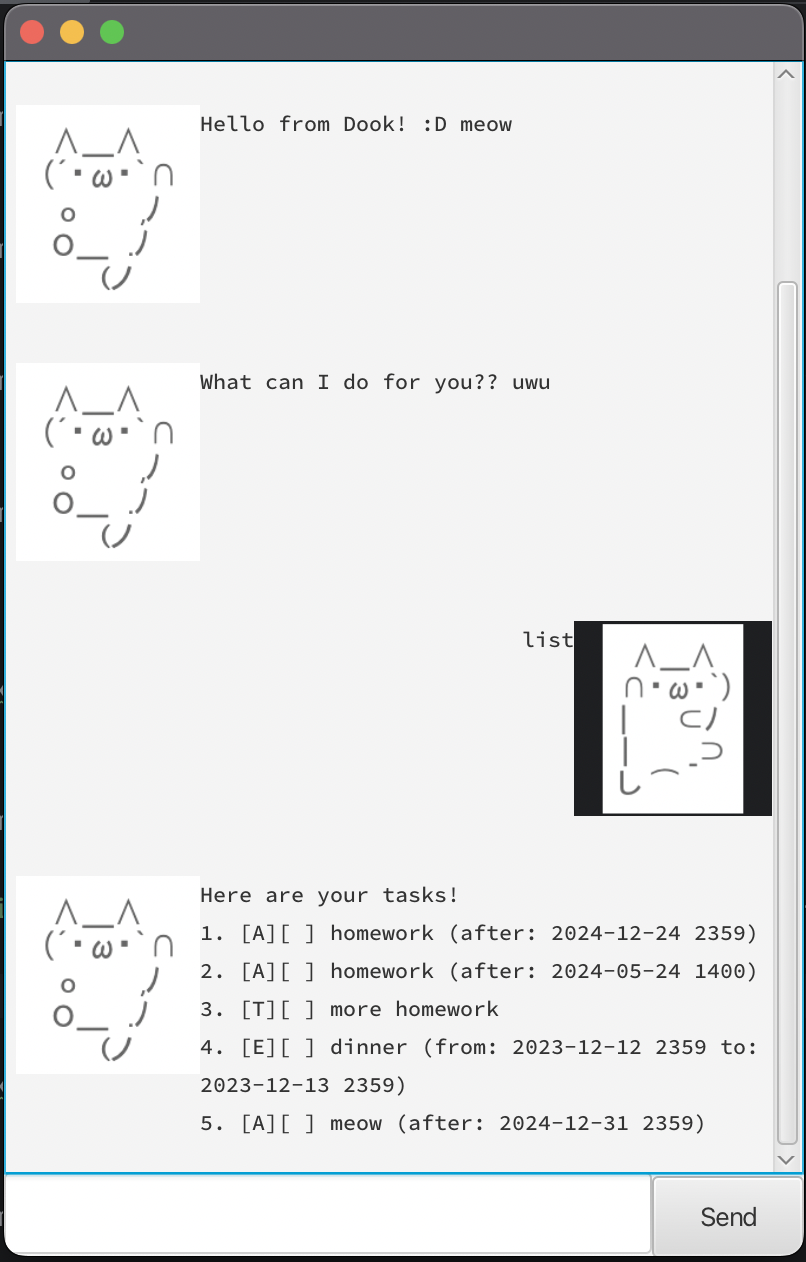
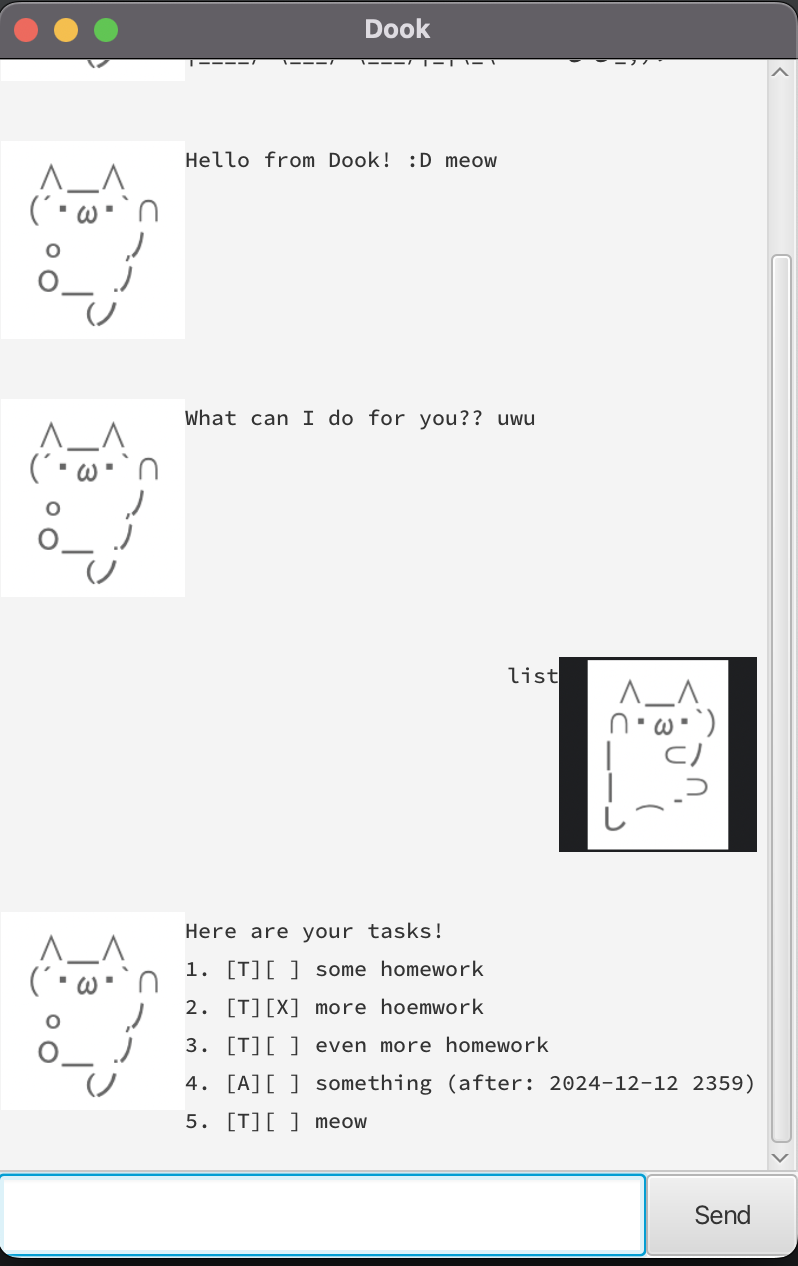
Move readme into docs

diff --git a/src/main/java/dook/Main.java b/src/main/java/dook/Main.java
@@ -28,6 +28,7 @@ public class Main extends Application {
         try {
             FXMLLoader fxmlLoader = new FXMLLoader(Main.class.getResource("/view/MainWindow.fxml"));
             AnchorPane ap = fxmlLoader.load();
+            stage.setTitle("Dook");
             Scene scene = new Scene(ap);
             stage.setScene(scene);
             fxmlLoader.<MainWindow>getController().setDook(dook);

diff --git a/docs/README.md b/docs/README.md
@@ -1,30 +1,78 @@
-# Duke User Guide
+# Dook
 
-// Update the title above to match the actual product name
+This is a chat bot that can help you keep track of your tasks!
 
-// Product screenshot goes here
+## Features
 
-// Product intro goes here
+### Date and time formatting
+All date and time inputs have to be in the format ```yyyy-MM-dd HHmm```.
+Example: ```2023-01-01 2359```.
 
-## Adding deadlines
+### Adding tasks
 
-// Describe the action and its outcome.
+There are 4 task types. ```deadline```, ```doafter```,
+```event```, and ```todo``` 
 
-// Give examples of usage
+The syntax to add a task is ```[task type] [task description] [other parameters, indicated by a forward slash]```
 
-Example: `keyword (optional arguments)`
+For ```deadline```, the syntax is ```deadline [task description] /by [datetime]```.
+Example: ```deadline homework /by 2023-01-01 2359```.
 
-// A description of the expected outcome goes here
+For ```doafter```, the syntax is ```doafter [task description] /after [datetime]```.
+Example: ```doafter homework /after 2023-01-01 2350```.
 
-```
-expected output
-```
+For ```event```, the syntax is ```event [task description] /from [datetime] /to [datetime]```.
+Example: ```event homework /from 2023-01-01 2359 /to 2023-01-02 2350```.
 
-## Feature ABC
+For ```todo```, the syntax is ```todo [task description]```
+Example: ```todo homework```.
 
-// Feature details
+### Indicating task completion
 
+Dook supports 2 commands to indicate a task is done - ```mark``` and ```unmark```.
 
-## Feature XYZ
+The syntax is ```mark [index]``` and ```unmark [index]```.
+Example: ```mark 2```.
 
-// Feature details
+```index``` has to lie between 1 and the total number of tasks Dook has stored.
+
+### Deleting a task
+
+Dook supports task deletion using ```delete```.
+
+The syntax is ```delete [index]```.
+Example: ```delete 2```.
+
+```index``` has to lie between 1 and the total number of tasks Dook has stored.
+
+### Listing all tasks
+
+You can list out all the tasks by the command ```list```. No additional arguments required.
+
+### Finding tasks
+
+To find a task, use ```find```. The syntax is ```find [keyword]```. Only exact matches will be listed.
+Example: ```find homework```.
+
+### Exiting the application
+
+You can exit the application by entering ```bye```. No additional arguments required.
+
+### Easter eggs
+
+Try ```meow``` and ```dance```!
+
+## Launching Dook
+
+Prerequisites: JDK 11
+
+1. Download ```Dook.jar```
+2. Navigate to the file directory containing ```Dook.jar```
+3. Launch by entering ```java -jar Dook.jar```
+   ```
+    ____              _  
+   |  _ \  ___   ___ | | __      ╱|
+   | | | |/ _ \ / _ \| |/ /    (˚. 。7  
+   | |_| | |_| | |_| |   <      |、˜〵
+   |____/ \___/ \___/|_|\_\     じし_,)ノ
+   ```
